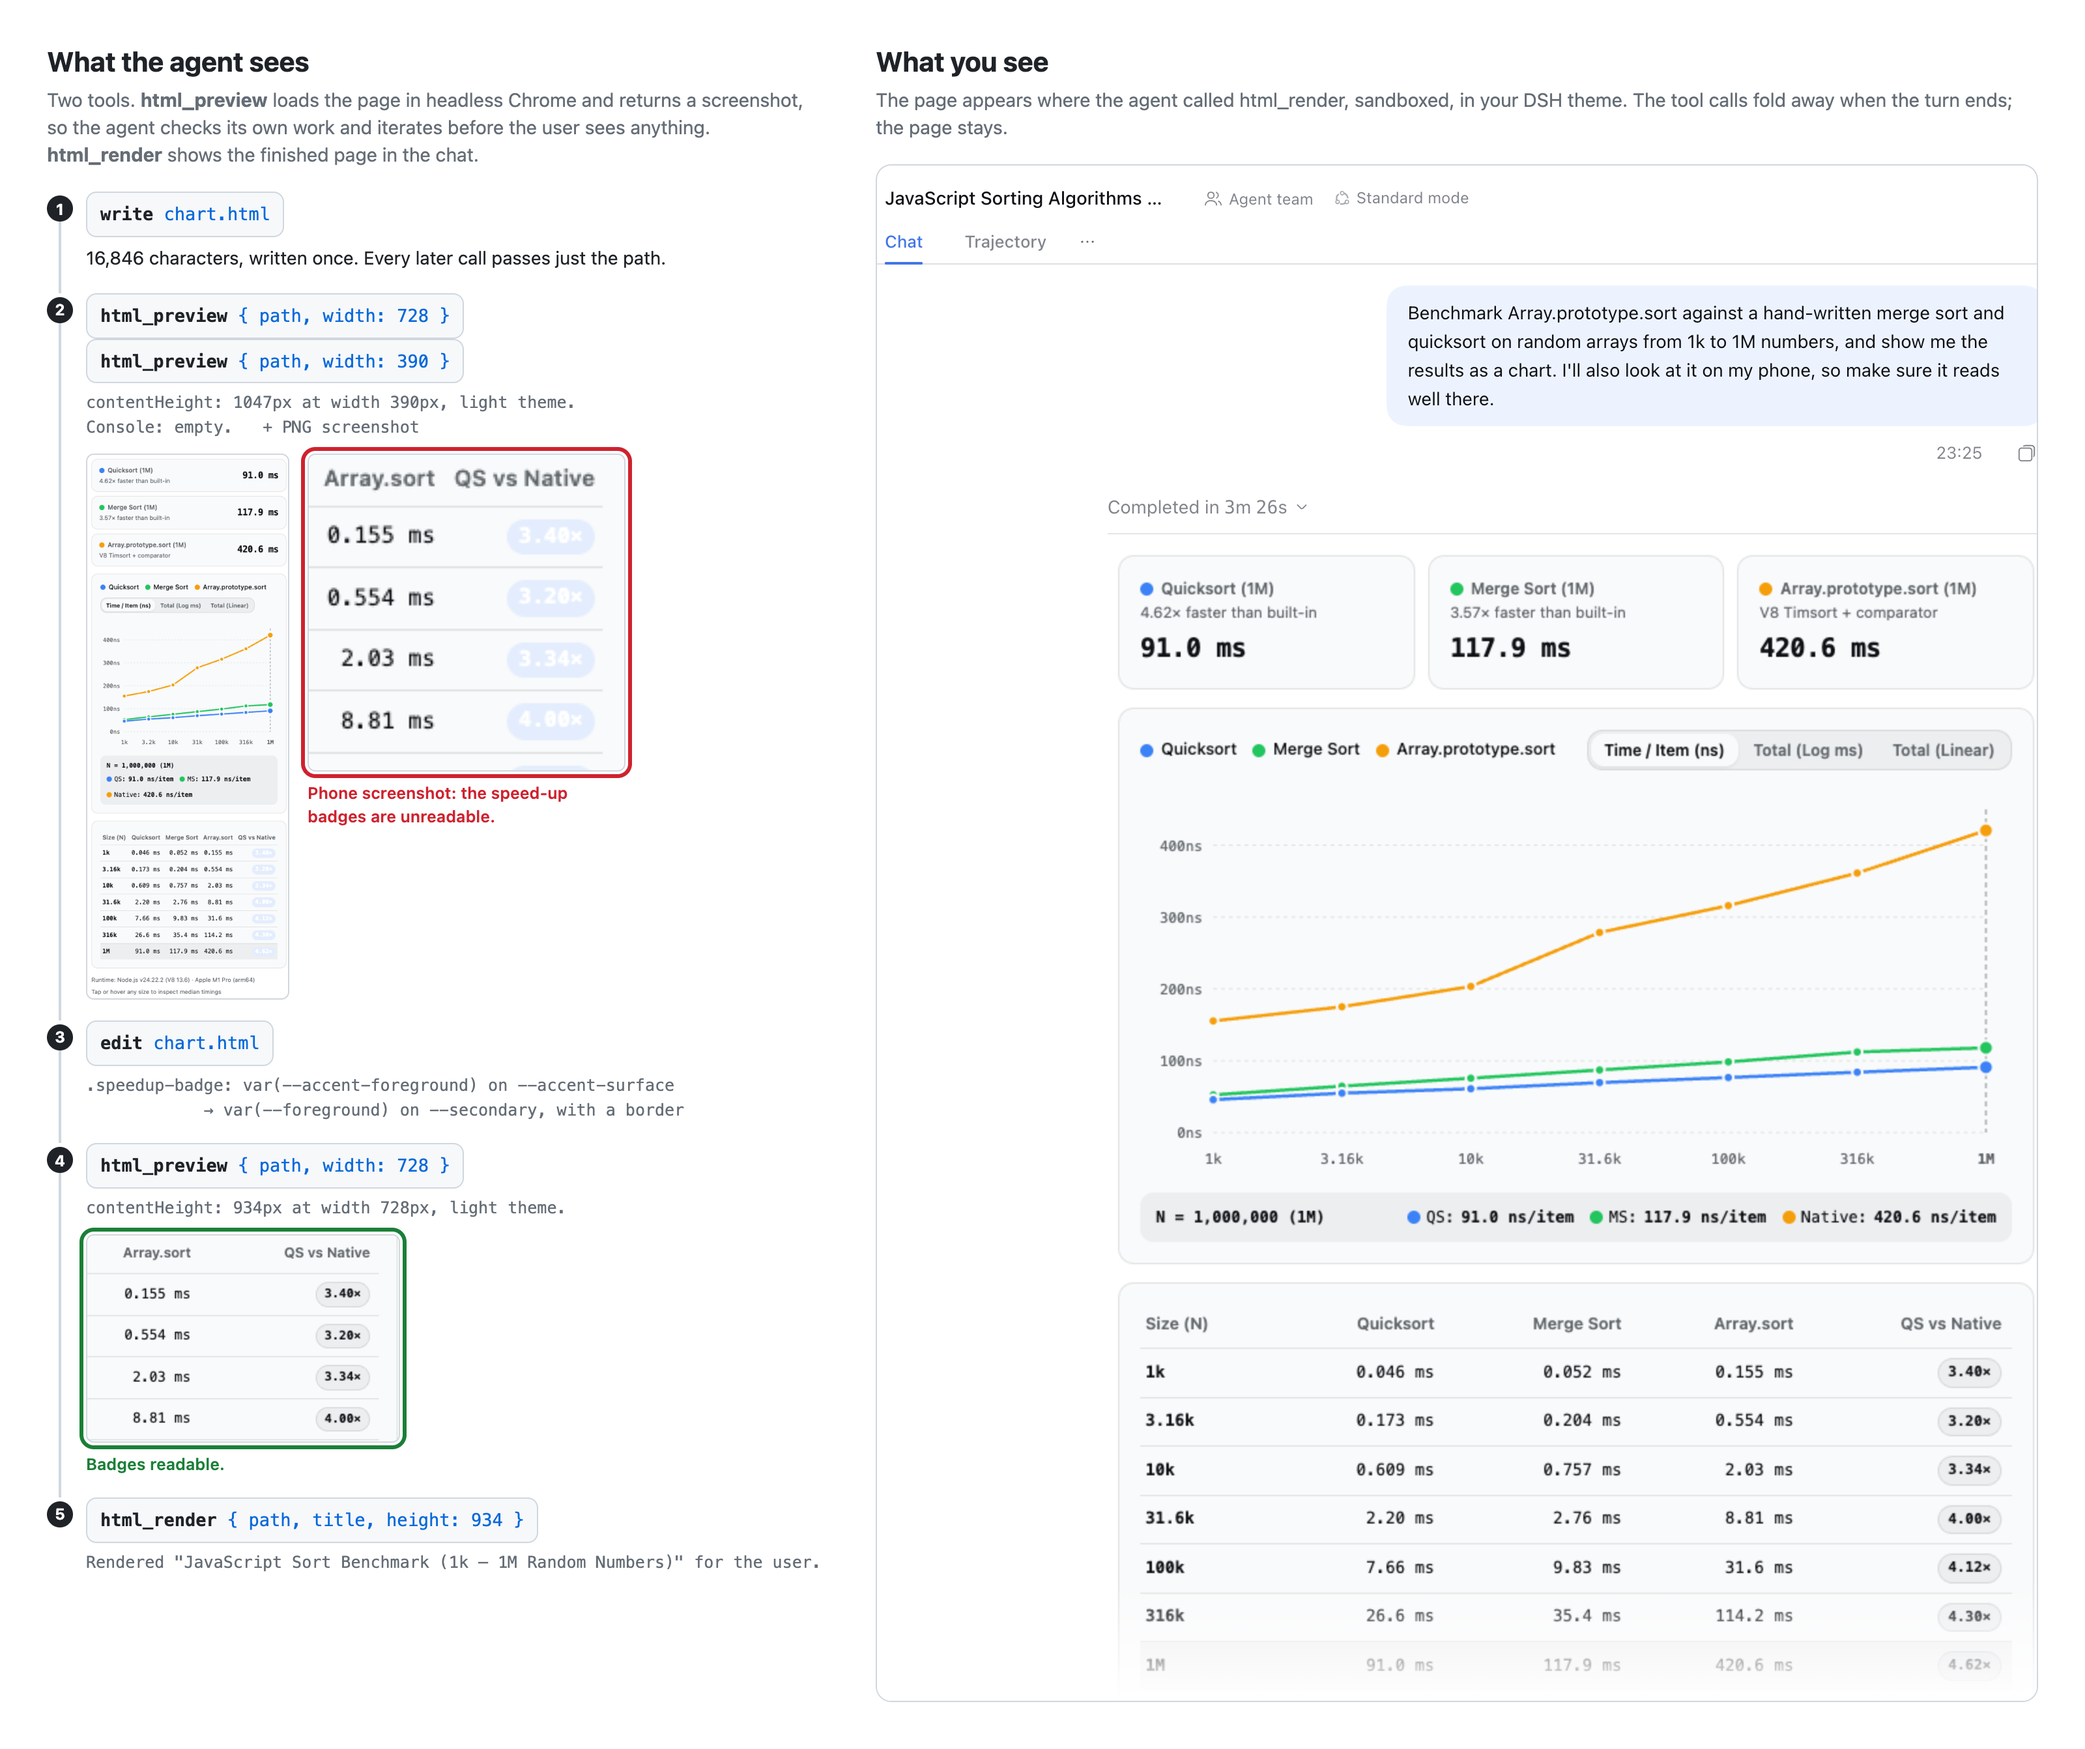
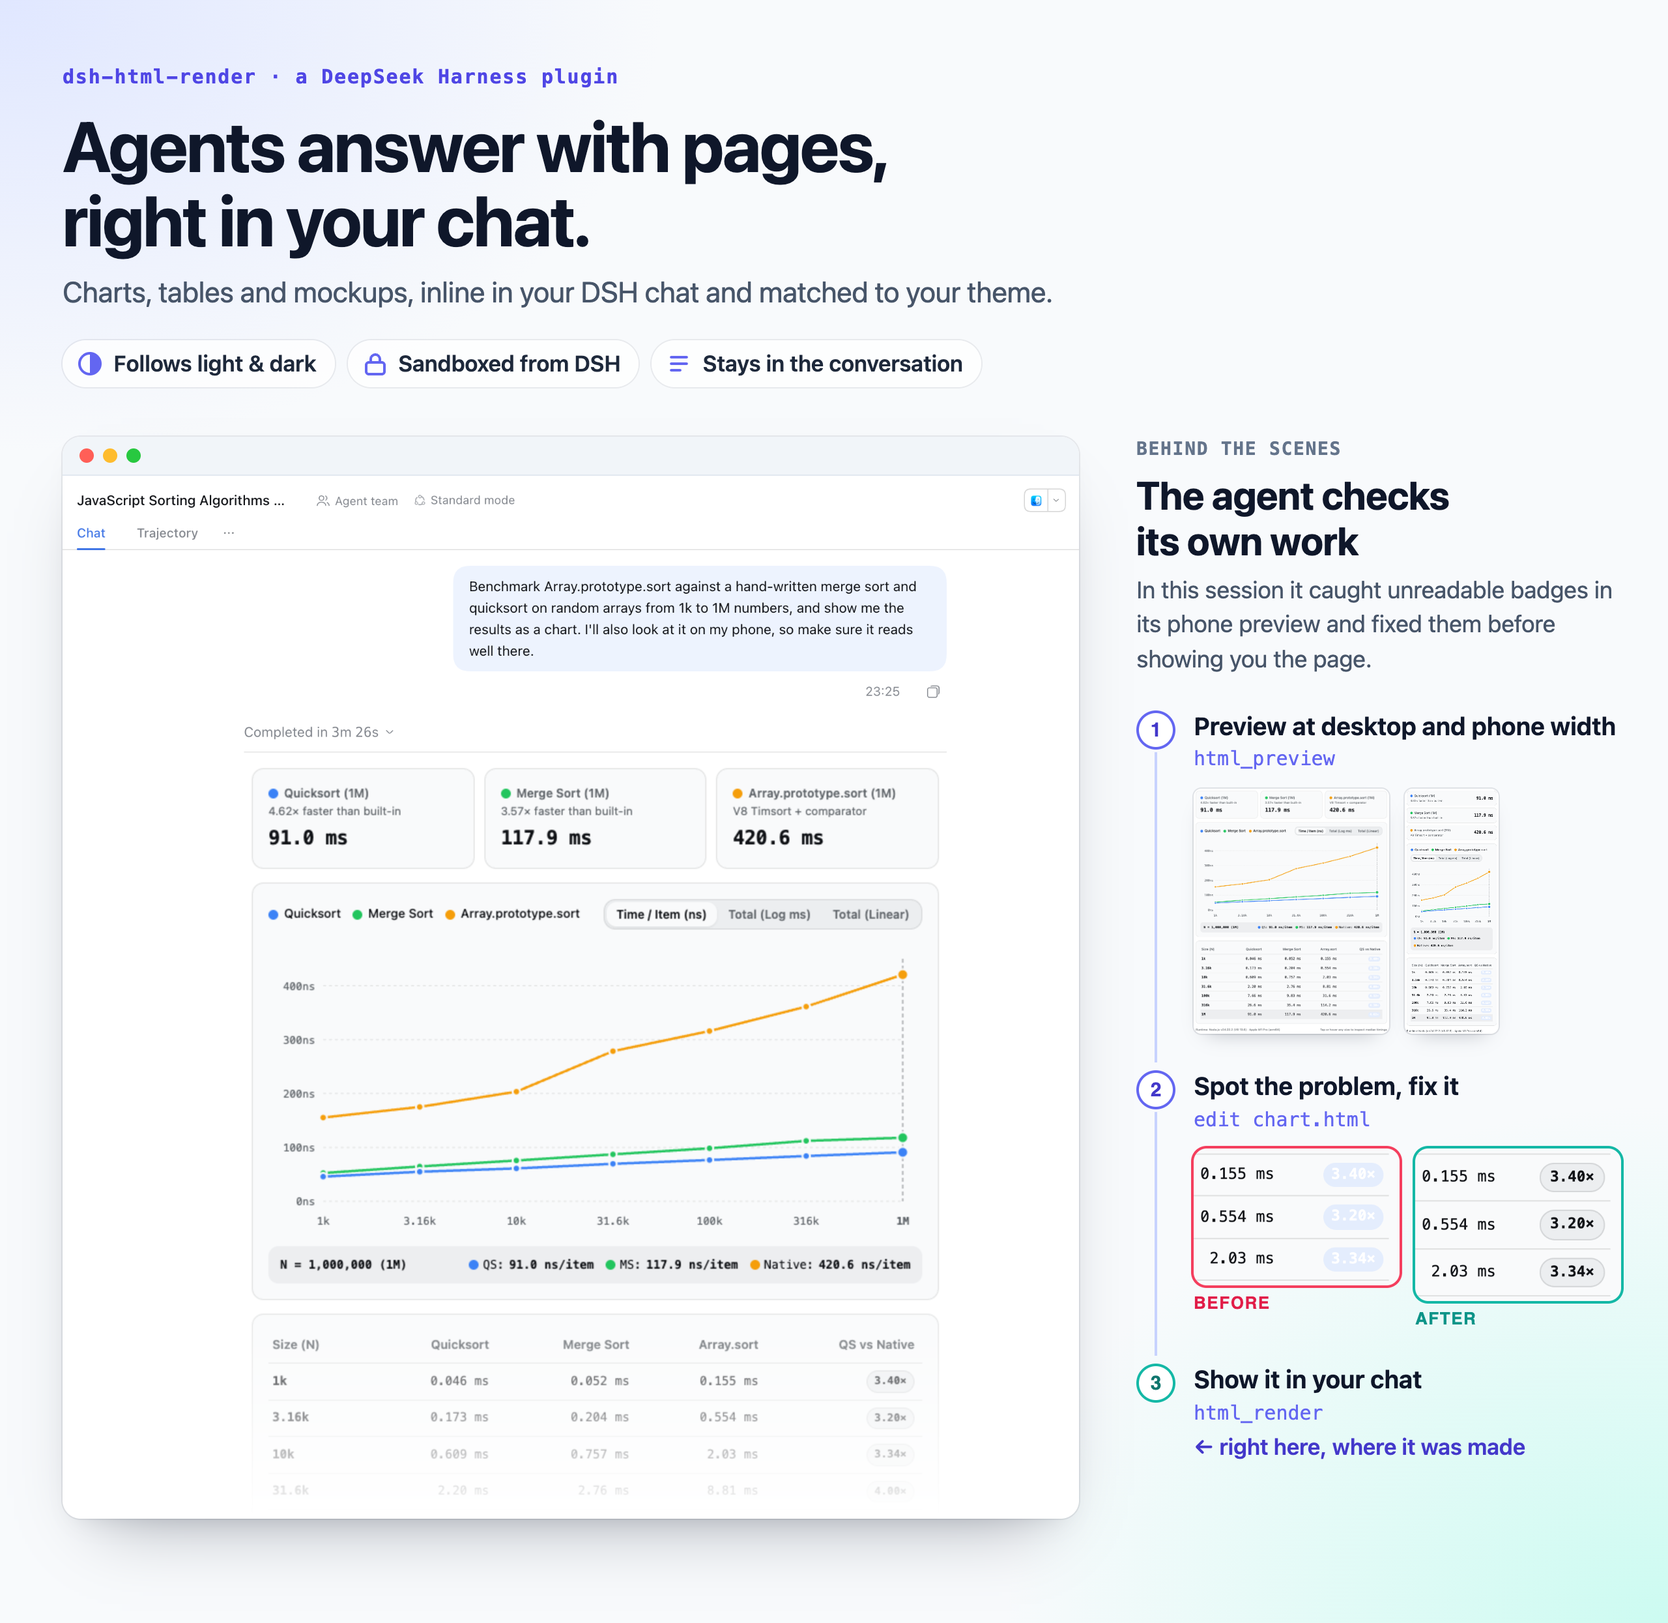
Lead the demo image with what the user sees
The DSH chat with the rendered page is now the main subject; the agent's
preview, fix and render steps sit in a side rail, with a same-size before/after
of the fix at phone width.

diff --git a/README.md b/README.md
@@ -5,11 +5,12 @@ a page: a chart, table, diagram or mockup shown right in the chat. The agent
 checks the page in headless Chrome first, so it sees what you will see and fixes
 it before you do.
 
-![Left: the agent writes chart.html, previews it at desktop and phone width, sees unreadable badges in the phone screenshot, edits the file and previews again, then renders it. Right: the same page in the DSH chat.](docs/demo.png)
+![A DSH chat showing a benchmark chart and table the agent rendered inline. Beside it, the agent's steps: it previewed the page at desktop and phone width, saw unreadable badges in the phone preview, fixed them, and rendered the page.](docs/demo.png)
 
 *A real session: asked for a benchmark chart that also reads well on a phone,
-the agent spotted unreadable badges in its own phone-width preview and fixed
-them before rendering.*
+the agent caught unreadable badges in its own phone-width preview and fixed
+them before rendering. The before/after crops are re-rendered at higher
+resolution from the session's two versions of the page.*
 
 Needs DSH 0.2.x (0.2.2-alpha.2 or later) and, for previews, Google Chrome or
 Chromium on the machine running DSH. MIT licensed.
